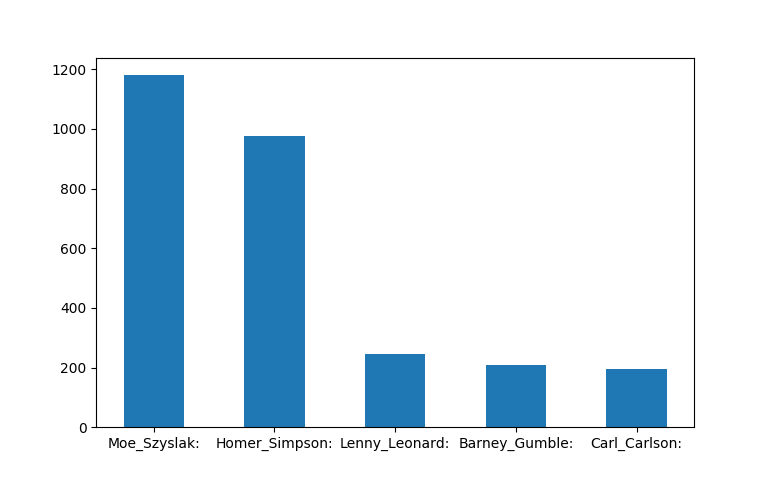
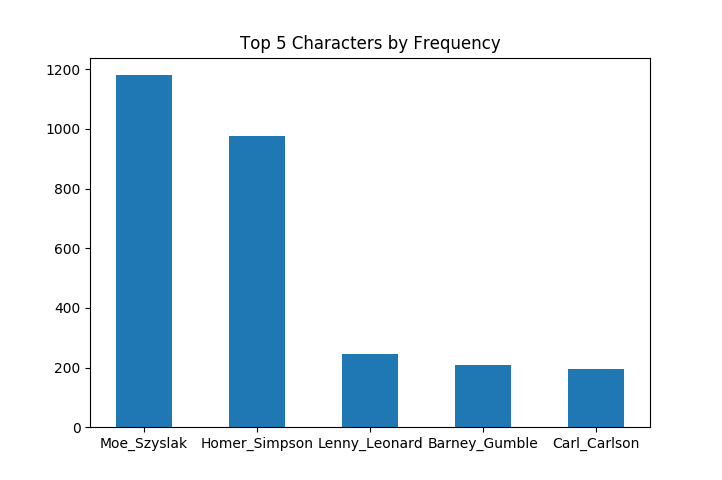
Updated visualization code

diff --git a/11. generate_tv_script/text_viz_analytics.py b/11. generate_tv_script/text_viz_analytics.py
@@ -48,11 +48,6 @@ def identify_characters(data):
     return characters
 
 
-def retrieve_labels_values(counter):
-    labels, values = zip(*counter.items())
-    return labels, values
-
-
 def count_characters(data, characters):
     """
     Return amount of times a character appears in text.
@@ -63,8 +58,8 @@ def count_characters(data, characters):
         labels (ndarray):
         values (ndarray):
     """
-    counts = Counter(data.split())
-    character_counts = {name: freq for (name, freq) in counts.most_common()
+    count = Counter(data.split())
+    character_counts = {name[:-1]: freq for (name, freq) in count.most_common()
                         if name in characters}
 
     labels, values = zip(*character_counts.items())
@@ -105,6 +100,7 @@ def visualize_counts(labels, values):
 
     plt.bar(indices, values[:5], width=bar_width, align="center")
     plt.xticks(indices, labels[:5])
+    plt.title("Top 5 Characters by Frequency")
     plt.show()
 
 
@@ -118,21 +114,26 @@ def remove_stopwords_names(data, characters):
     Returns
         filtered_script (list): script without stopwords or character names
     """
-    word_tokens = word_tokenize(data.lower())
+    strip_punc = str.maketrans('', '', string.punctuation)
+    data = data.translate(strip_punc).lower()
+    characters = [char.translate(strip_punc).lower() for char in characters]
+    word_tokens = word_tokenize(data)
     stop_words = stopwords.words('english')
-    characters = [character.lower()[:-1] for character in characters]
     filtered_script = [w for w in word_tokens
                        if w not in stop_words and
                        w not in characters and
-                       w not in string.punctuation and
-                       "'" not in w and "." not in w and
                        len(w) > 2]
 
     return filtered_script
 
 
 def convert_to_json(filtered_script):
-    """adsf."""
+    """
+    Convert dictionary to JSON for input to R wordcloud script.
+
+    Args
+        filtered_script (list): list of filtered words in script
+    """
     dictionary = Counter(filtered_script)
 
     # Use operator.itemgetter for efficiency reasons
@@ -141,14 +142,19 @@ def convert_to_json(filtered_script):
     with open("word_counts.json", "w") as outfile:
         json.dump(sorted_dict, outfile)
 
+    print("JSON stored in {}".format(getcwd()))
+
 
 def main():
-    """asdf."""
+    """Print analytics, visualizations, and create JSON file."""
     data = get_data()
     characters = identify_characters(data)
     labels, values = count_characters(data, characters)
     text_analytics(data)
     visualize_counts(labels, values)
+    filtered_script = remove_stopwords_names(data, characters)
+    convert_to_json(filtered_script)
+
 
 if __name__ == "__main__":
     main()
